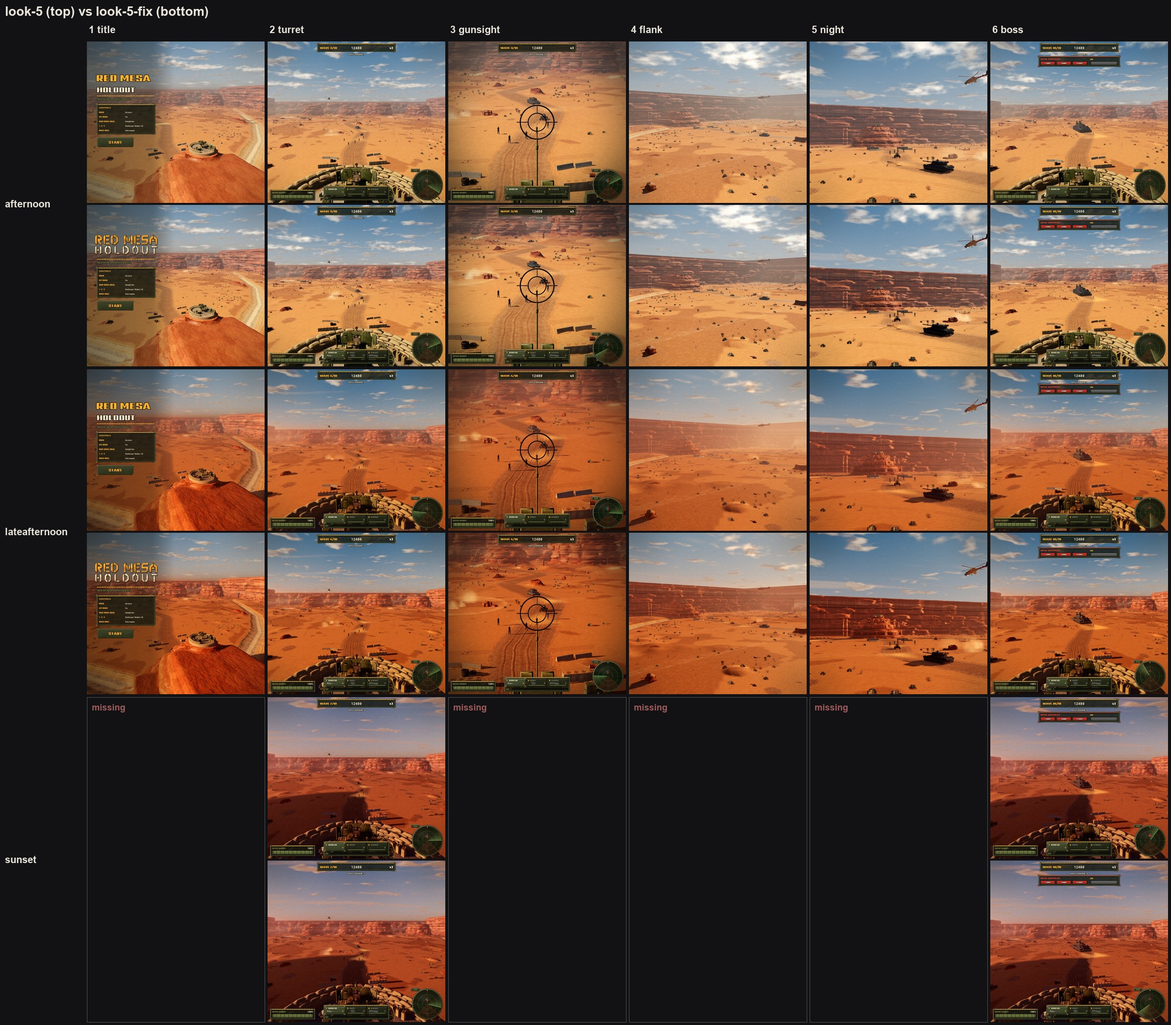
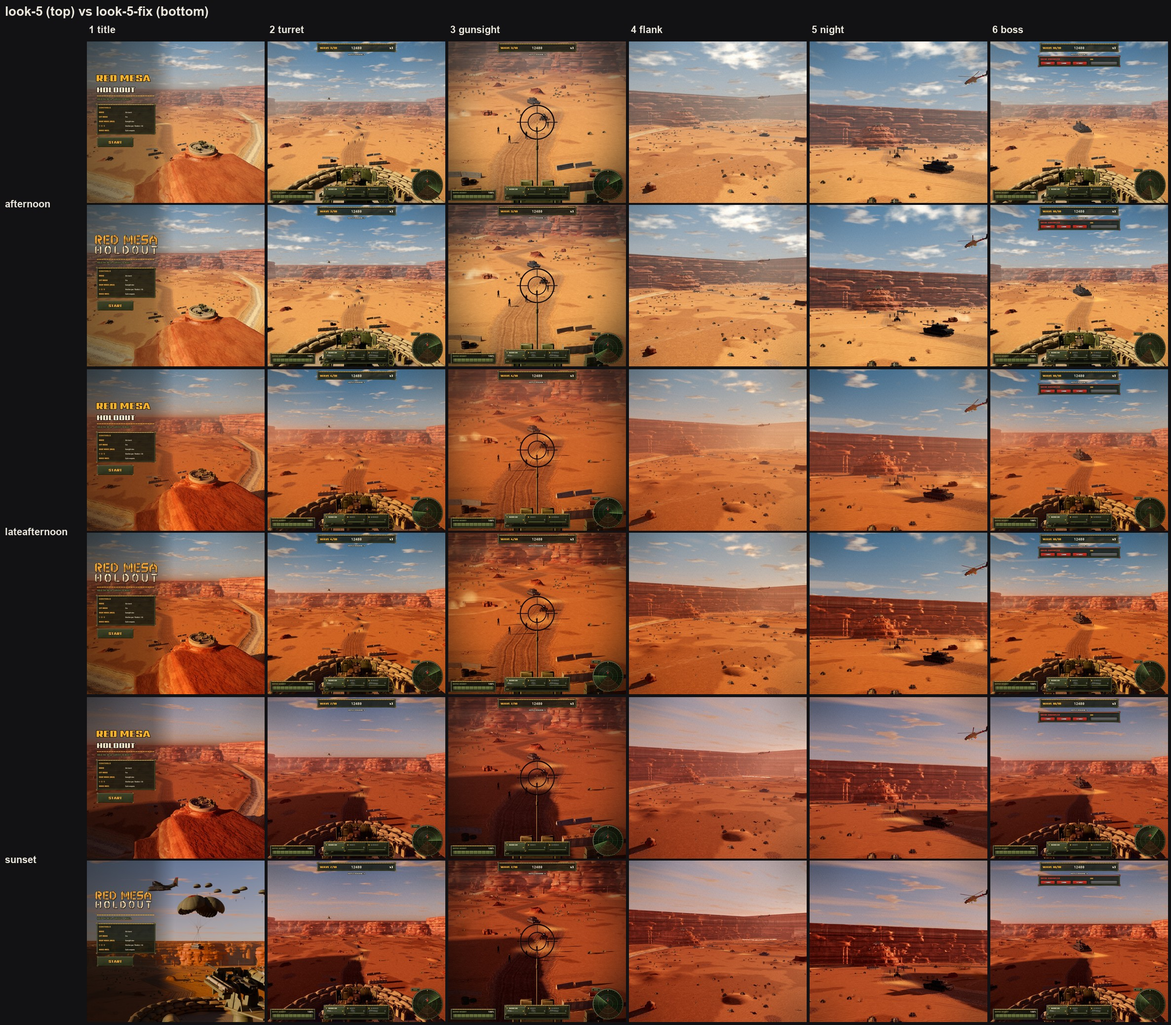
fix(look): LOOK-5 fix 1: Sunset Atmosphere density 0.25 -> 0.22 (its pre-LOOK-5 value; the far tank 3.36 -> 5.48:1, boss escorts 3.69 -> 5.26); Sunset set recaptured; strict-mask probe re-run for all three presets

Changed region(s): [[0.3744, 0.6782, 0.8735, 1.0], [0.0624, 0.6782, 0.2496, 1.0]]

diff --git a/qa/beauty/look-5-fix/tele/run_probes.py b/qa/beauty/look-5-fix/tele/run_probes.py
@@ -17,9 +17,13 @@ RUNS = [
     ("lateafternoon_heli_before-d028.jpg", "lateafternoon_heli_before_mask.jpg", "rects_r_heli_late.txt", "late-heli-before-d028"),
     ("lateafternoon_heli_after-d024.jpg", "lateafternoon_heli_after_mask.jpg", "rects_r_heli_late2.txt", "late-heli-after-d024"),
     ("lateafternoon_boss_after-d024.jpg", "boss_mask.jpg", "rects_r_boss2.txt", "late-boss-after-d024"),
-    ("sunset_ground.jpg", "ground_mask.jpg", "rects_r_ground2.txt", "sunset-unchanged"),
-    ("sunset_heli.jpg", "sunset_heli_mask.jpg", "rects_r_heli_sunset.txt", "sunset-heli-unchanged"),
-    ("sunset_boss.jpg", "boss_mask.jpg", "rects_r_boss2.txt", "sunset-boss-unchanged"),
+    ("sunset_ground_pre-look5-emulated.jpg", "ground_mask.jpg", "rects_r_ground4.txt", "sunset-pre-LOOK-5-emulated"),
+    ("sunset_ground_before-d025.jpg", "ground_mask.jpg", "rects_r_ground2.txt", "sunset-before-d025"),
+    ("sunset_ground_after-d022.jpg", "ground_mask.jpg", "rects_r_ground4.txt", "sunset-after-d022"),
+    ("sunset_heli_before-d025.jpg", "sunset_heli_before_mask.jpg", "rects_r_heli_sunset.txt", "sunset-heli-before-d025"),
+    ("sunset_heli_after-d022.jpg", "sunset_heli_after_mask.jpg", "rects_r_heli_s022.txt", "sunset-heli-after-d022"),
+    ("sunset_boss_before-d025.jpg", "sunset_boss_mask.jpg", "rects_r_boss2.txt", "sunset-boss-before-d025"),
+    ("sunset_boss_after-d022.jpg", "sunset_boss_mask.jpg", "rects_r_boss2.txt", "sunset-boss-after-d022"),
 ]
 out = ["# LOOK-5 fix 1: masked telephoto readability probe (maskprobe.py); camera at the turret-shot",
        "# position, zoomed onto the group; med:1 = body median, q1:1 = body darkest quartile (LOOK-1's",

diff --git a/qa/beauty/look-5-fix/tele/maskprobe.py b/qa/beauty/look-5-fix/tele/maskprobe.py
@@ -1,6 +1,6 @@
 """Masked readability probe (LOOK-5 fix).
 usage: maskprobe.py normal.jpg mask.jpg rects.txt [--viewport WxH] [--label L] [--crops outdir]
-Body = pixels painted solid magenta in the mask capture (eroded 1 px), inside the
+Body = pixels painted solid magenta in the mask capture (strict colour test, eroded 2 px), inside the
 enemy's projected box. Ground = median luma of a ring around that body (dilated
 body, excluding every masked pixel), from the normal capture. Luma = Rec.709 on
 sRGB 0..255. ratio = (ground + 5) / (body + 5), for the body median ("main body")
@@ -28,7 +28,8 @@ c = A / 255.0
 lin = np.where(c <= 0.03928, c / 12.92, ((c + 0.055) / 1.055) ** 2.4)
 Y = lin @ [0.2126, 0.7152, 0.0722]  # WCAG relative luminance (tools/qa/palette.py)
 R, G, B = M[..., 0], M[..., 1], M[..., 2]
-mag = (R > 140) & (B > 130) & (G < 125) & ((R + B) / 2 - G > 70)
+# strict: the Neon paint's glow halo (blended with the background) must not count as body
+mag = (R > 215) & (B > 205) & (G < 95)
 mag_img = Image.fromarray((mag * 255).astype(np.uint8))
 body_all = np.asarray(mag_img.filter(ImageFilter.MinFilter(5))) > 0
 any_near = np.asarray(mag_img.filter(ImageFilter.MaxFilter(9))) > 0

diff --git a/docs/ART_BIBLE.md b/docs/ART_BIBLE.md
@@ -129,7 +129,7 @@ into the light.
 |---|---|---|---|---|
 | Afternoon (waves 1–3, `ClockTime` 15.2) | High, warm-white sun; crisp short shadows that model every ledge; a deep, clean blue sky; the ground a neutral ochre, not orange. Pale dust hangs low: the far wall and the feet of the canyon walls sit back in it while the rims stay sharp, so foreground, basin and walls separate. The clearest, most readable preset: dark enemies on bright ground. | Harder key 4.1 (exposure −0.12) over a darker, cooler fill; `EnvironmentDiffuseScale` 0.5 for modelling, `ShadowSoftness` 0.08. Atmosphere density 0.27 / offset 0.3, pale dust colour (0.30 lifted a 430-stud tank below 3:1; LOOK-5 fix 1). Grade contrast 0.34, saturation −0.08, near-neutral tint. Low dust bands (peak 0.22, wall feet 0.45); faint heat haze; film grain 5 %, vignette 16 %, sun glare when turned to the sun. | [afternoon_2-turret](../qa/beauty/look-5/afternoon_2-turret.jpg) | [p0](../qa/beauty/p0-baseline/afternoon_3-gunsight.jpg): flat, stock sky |
 | Late afternoon (waves 4–6, 16.85) | Golden amber sun ~17° up in the west; shadows lengthen and rake across the basin; cool violet fill keeps the shadow side from going orange. Warm dust lies low in the basin and glows where you look toward the sun; light pours over the west rim in soft shafts. Clearly warmer than afternoon at a glance. | Golden key 3.8 (`ColorShift_Top` #FFC484), violet ambient; atmosphere 0.24 / 0.3, warm dust (0.28 failed 3:1 on the tank; LOOK-5 fix 1); grade contrast 0.32, saturation −0.06; sun rays 0.16 (spread 0.65); dust bands 0.24 / walls 0.45 with backlit glow toward the sun; rim shafts 0.22; heat haze 75 %; grain 5.5 %, vignette 20 %. | [lateafternoon_2-turret](../qa/beauty/look-5/lateafternoon_2-turret.jpg) | [p0](../qa/beauty/p0-baseline/lateafternoon_5-night.jpg): barely different from afternoon |
-| Sunset (waves 7–10 and the boss, 17.25) | The climax light. Low orange sun on the west rim, long raking shadows, cool violet shadows, rim light on every silhouette; backlit dust and shafts of light over the rim, god rays when you turn toward the sun. Not a monochrome red: the grade holds the ground back so the sky and the dark enemy shapes carry the frame. | Orange key 3.9 against violet ambient/`ColorShift_Bottom`; thinner rose haze (0.25 / 0.32, glare 0.7); grade contrast 0.32, saturation −0.16; sun rays 0.2 (spread 0.7); dust 0.24 with the strongest glow; rim shafts 0.3; grain 6 %, vignette 22 %. | [sunset_4-flank](../qa/beauty/look-5/sunset_4-flank.jpg) | [p0](../qa/beauty/p0-baseline/sunset_5-night.jpg): monochrome red, daytime sky |
+| Sunset (waves 7–10 and the boss, 17.25) | The climax light. Low orange sun on the west rim, long raking shadows, cool violet shadows, rim light on every silhouette; backlit dust and shafts of light over the rim, god rays when you turn toward the sun. Not a monochrome red: the grade holds the ground back so the sky and the dark enemy shapes carry the frame. | Orange key 3.9 against violet ambient/`ColorShift_Bottom`; thinner rose haze (0.22 / 0.32, glare 0.7; 0.25 cost the far tank and escorts contrast, LOOK-5 fix 1); grade contrast 0.32, saturation −0.16; sun rays 0.2 (spread 0.7); dust 0.24 with the strongest glow; rim shafts 0.3; grain 6 %, vignette 22 %. | [sunset_4-flank](../qa/beauty/look-5/sunset_4-flank.jpg) | [p0](../qa/beauty/p0-baseline/sunset_5-night.jpg): monochrome red, daytime sky |
 
 Film treatment (all presets, `client/PostFxFilm`): subtle animated grain
 and a gentle corner vignette under the HUD, and a sun glare (soft glow,
